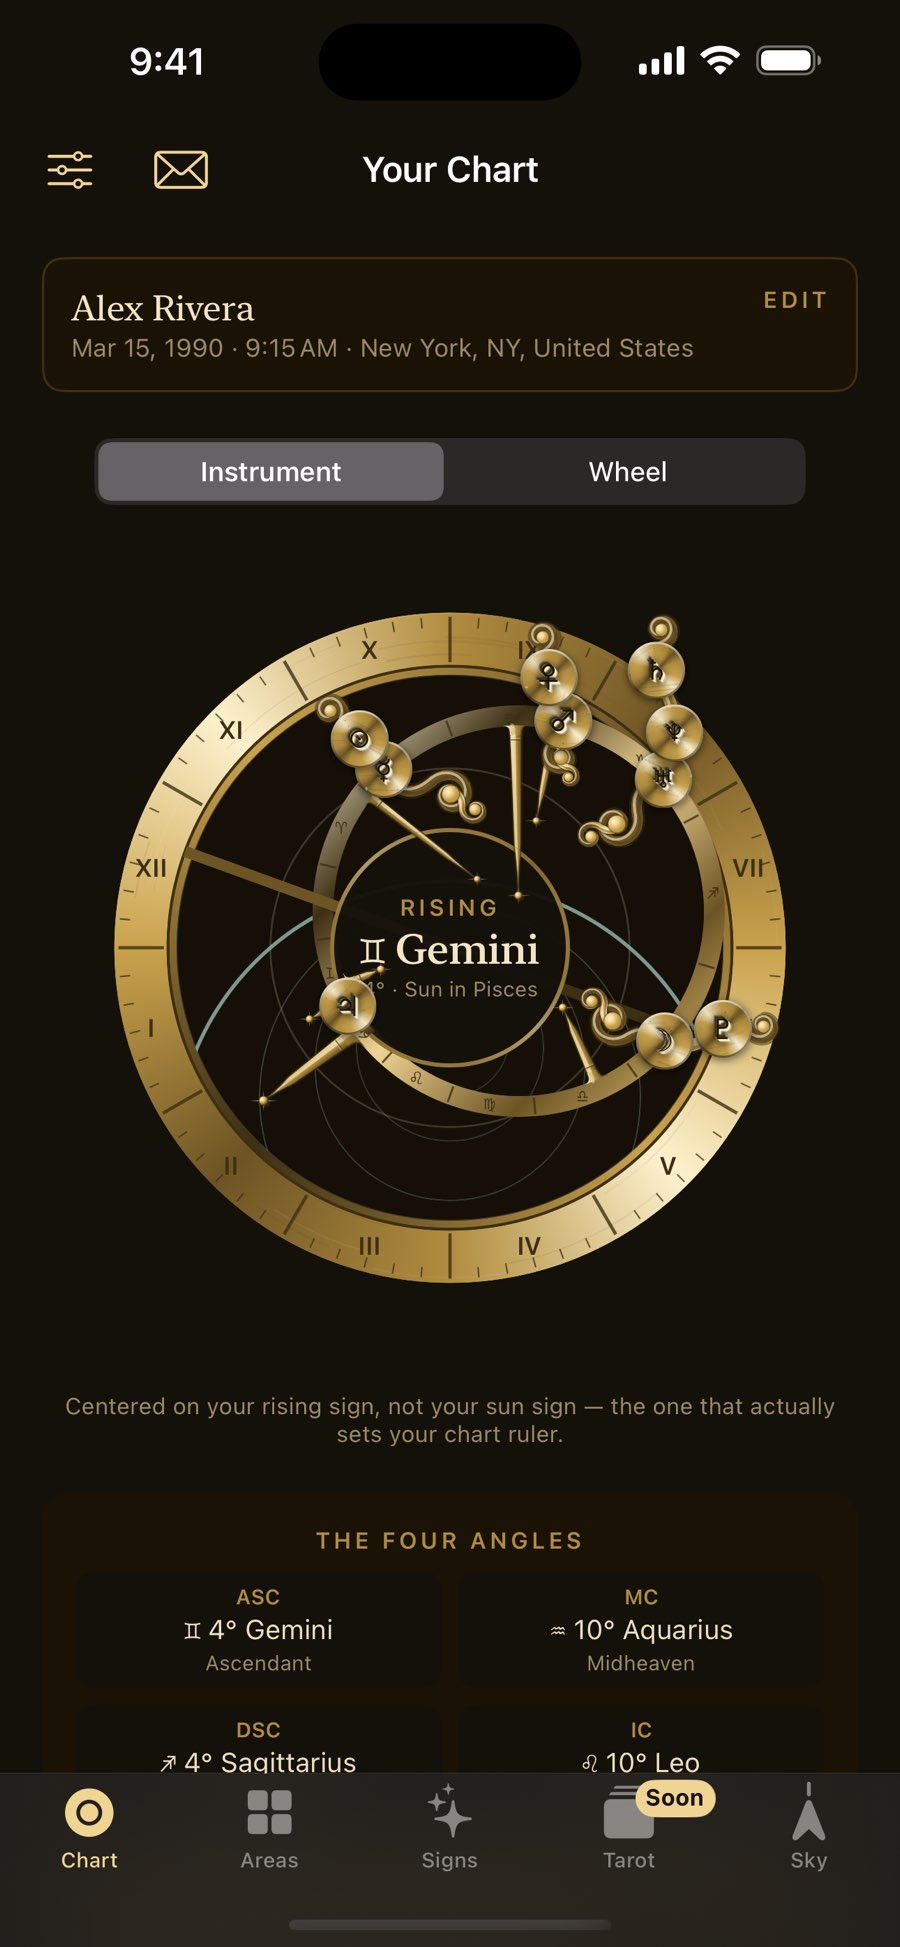
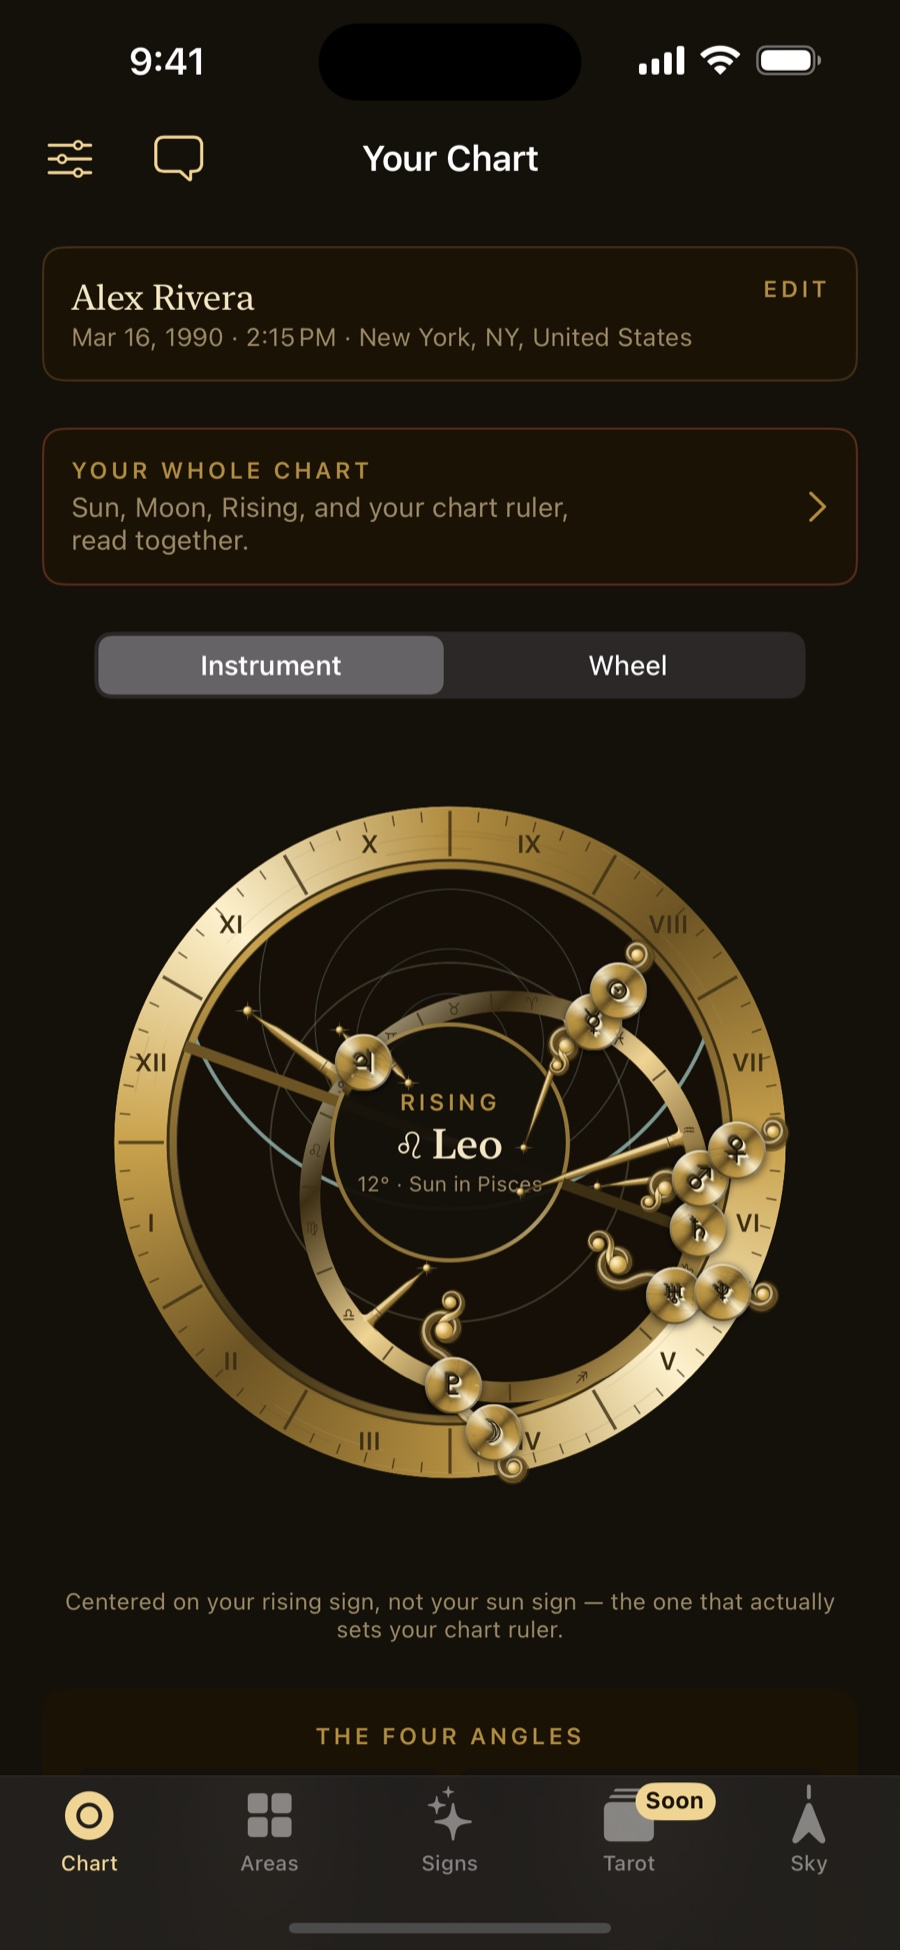
Refresh screenshots and add copy for whole-chart synthesis and new points
Recaptures all six existing marketing screenshots against the current
launch-prep build (iPhone 16 Plus simulator, Brass & Ink scheme) and adds
three new ones: the Whole Chart synthesis reading, the Black Moon Lilith
detail screen (standing in for the new North Node/Chiron/Selena points),
and the chart wheel view with the four angles marked on the rim.

Extends index.html with two new feature sections covering the whole-chart
synthesis reading and the newly tracked chart points (North Node, Chiron,
Black Moon Lilith, White Moon Selena), and adds the wheel-angles shot to
the signs gallery strip. Pre-launch gating (body.prelaunch, both idAPPLE_ID
placeholders, and the release-day guard script) is untouched.

diff --git a/index.html b/index.html
@@ -334,6 +334,30 @@
   </div>
 </section>
 
+<section class="feature">
+  <div class="wrap">
+    <div>
+      <span class="eyebrow">One Reading, Not Four</span>
+      <h2>Sun, Moon, Rising, and Ruler — Read as One Chart, Not Four.</h2>
+      <p>Most horoscopes stop at your sun sign. This one reads your Sun, Moon, Rising, and the planet that rules your whole chart together, as a single throughline instead of four separate blurbs.</p>
+      <p>It closes by naming your chart's overall lean, so those four signs resolve into one picture instead of sitting side by side as trivia.</p>
+    </div>
+    <div class="shot"><img src="assets/screenshots/04-whole-chart.jpg" alt="The Whole Chart reading, explaining the Sun, Moon, Rising, and chart ruler together" loading="lazy"></div>
+  </div>
+</section>
+
+<section class="feature reverse">
+  <div class="wrap">
+    <div>
+      <span class="eyebrow">The Points Most Charts Skip</span>
+      <h2>Every Point in Your Chart Gets Its Own Explanation.</h2>
+      <p>Alongside the ten planets and four angles, this app plots the North Node, Chiron, Black Moon Lilith, and White Moon Selena — points most apps either omit or list without explaining. Each one gets the same full treatment as a planet: what it means, and what to do about it.</p>
+      <p>Astrologers pair Black Moon Lilith, the Moon's farthest swing from Earth, with White Moon Selena, its closest — and this is the first version of the app to track both by name.</p>
+    </div>
+    <div class="shot"><img src="assets/screenshots/09-lilith-detail.jpg" alt="The Black Moon Lilith detail screen, explaining what the point means and what to do about it" loading="lazy"></div>
+  </div>
+</section>
+
 <section class="feature" id="sky">
   <div class="wrap">
     <div>
@@ -361,7 +385,8 @@
   <div class="strip">
     <div class="shot"><img src="assets/screenshots/06-signs.jpg" alt="The gallery of twelve zodiac signs illustrated in a batik style" loading="lazy"></div>
     <div class="shot"><img src="assets/screenshots/08-prints.jpg" alt="Ordering a real print of a sign's batik-style illustration" loading="lazy"></div>
-    <div class="shot"><img src="assets/screenshots/02-chart-instrument.jpg" alt="The birth chart instrument, showing planetary placements and the four angles" loading="lazy"></div>
+    <div class="shot"><img src="assets/screenshots/02-chart-instrument.jpg" alt="The birth chart instrument, showing planetary placements on the wheel with the Whole Chart reading above it" loading="lazy"></div>
+    <div class="shot"><img src="assets/screenshots/11-wheel-angles.jpg" alt="The chart wheel view, with the four angles marked directly on the rim" loading="lazy"></div>
   </div>
 </section>
 
